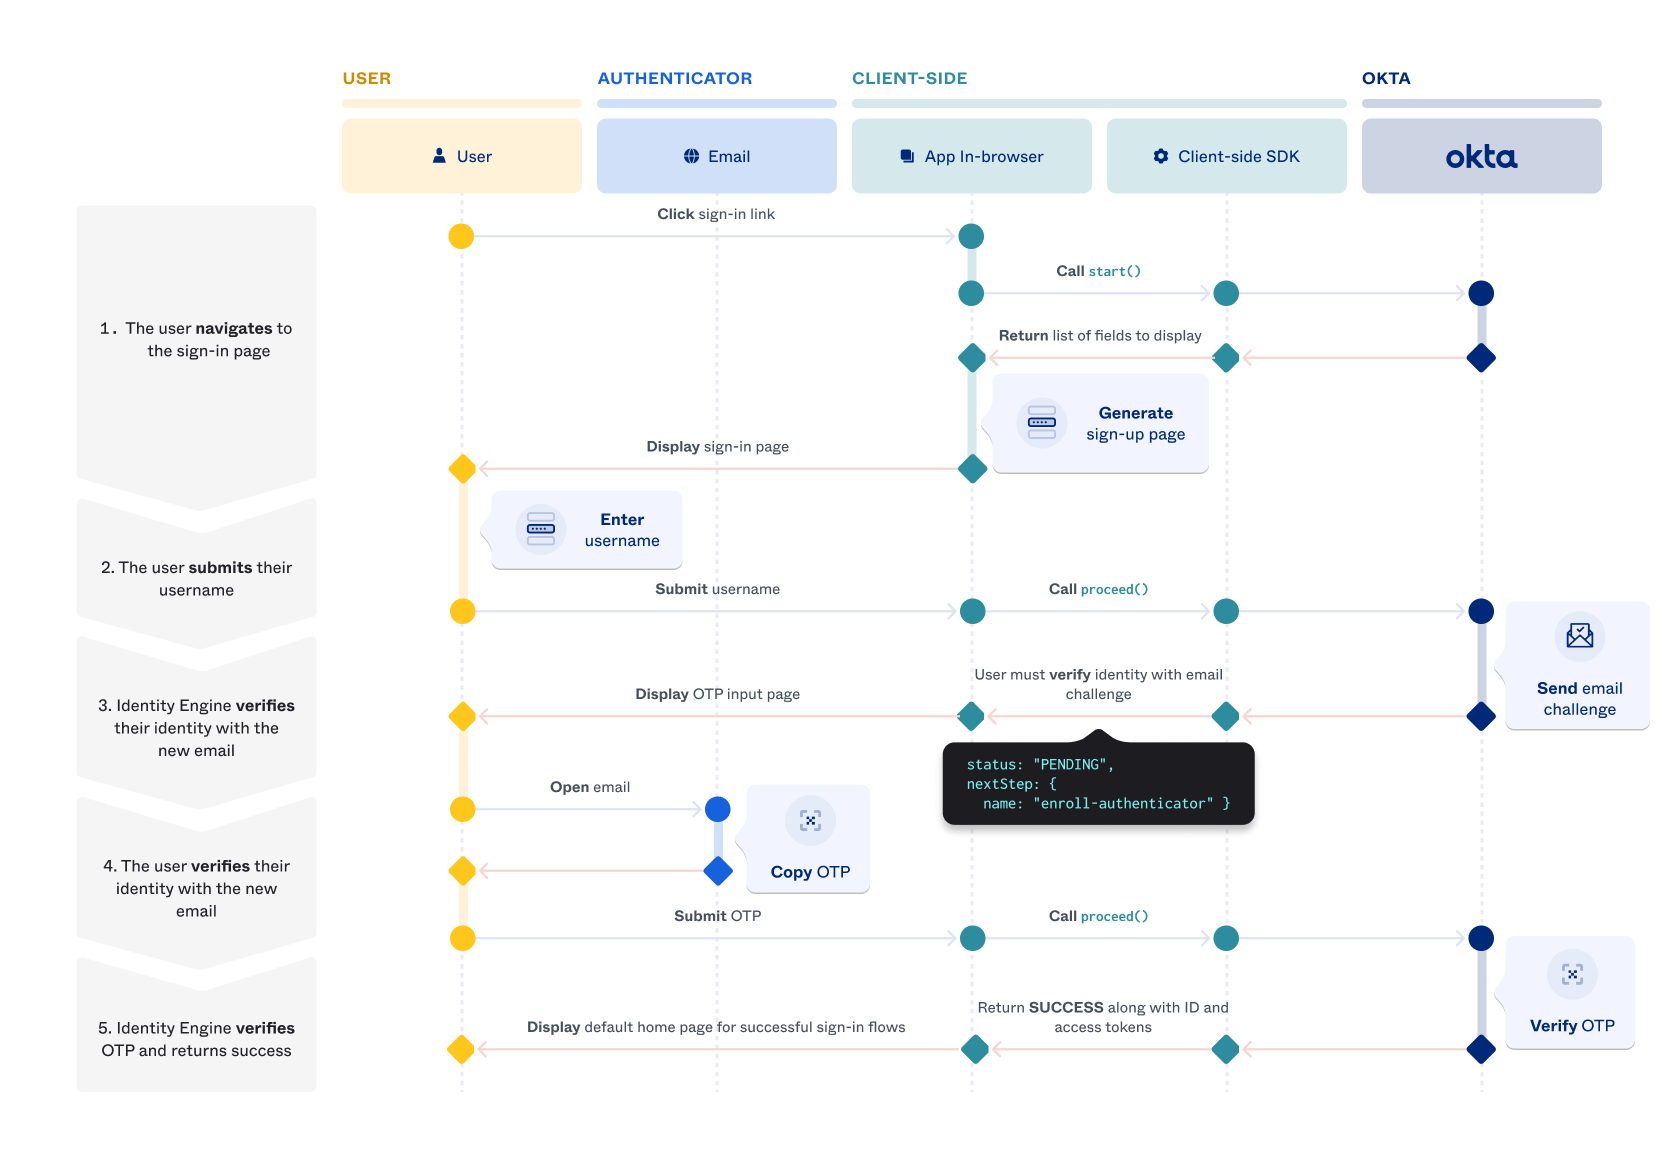
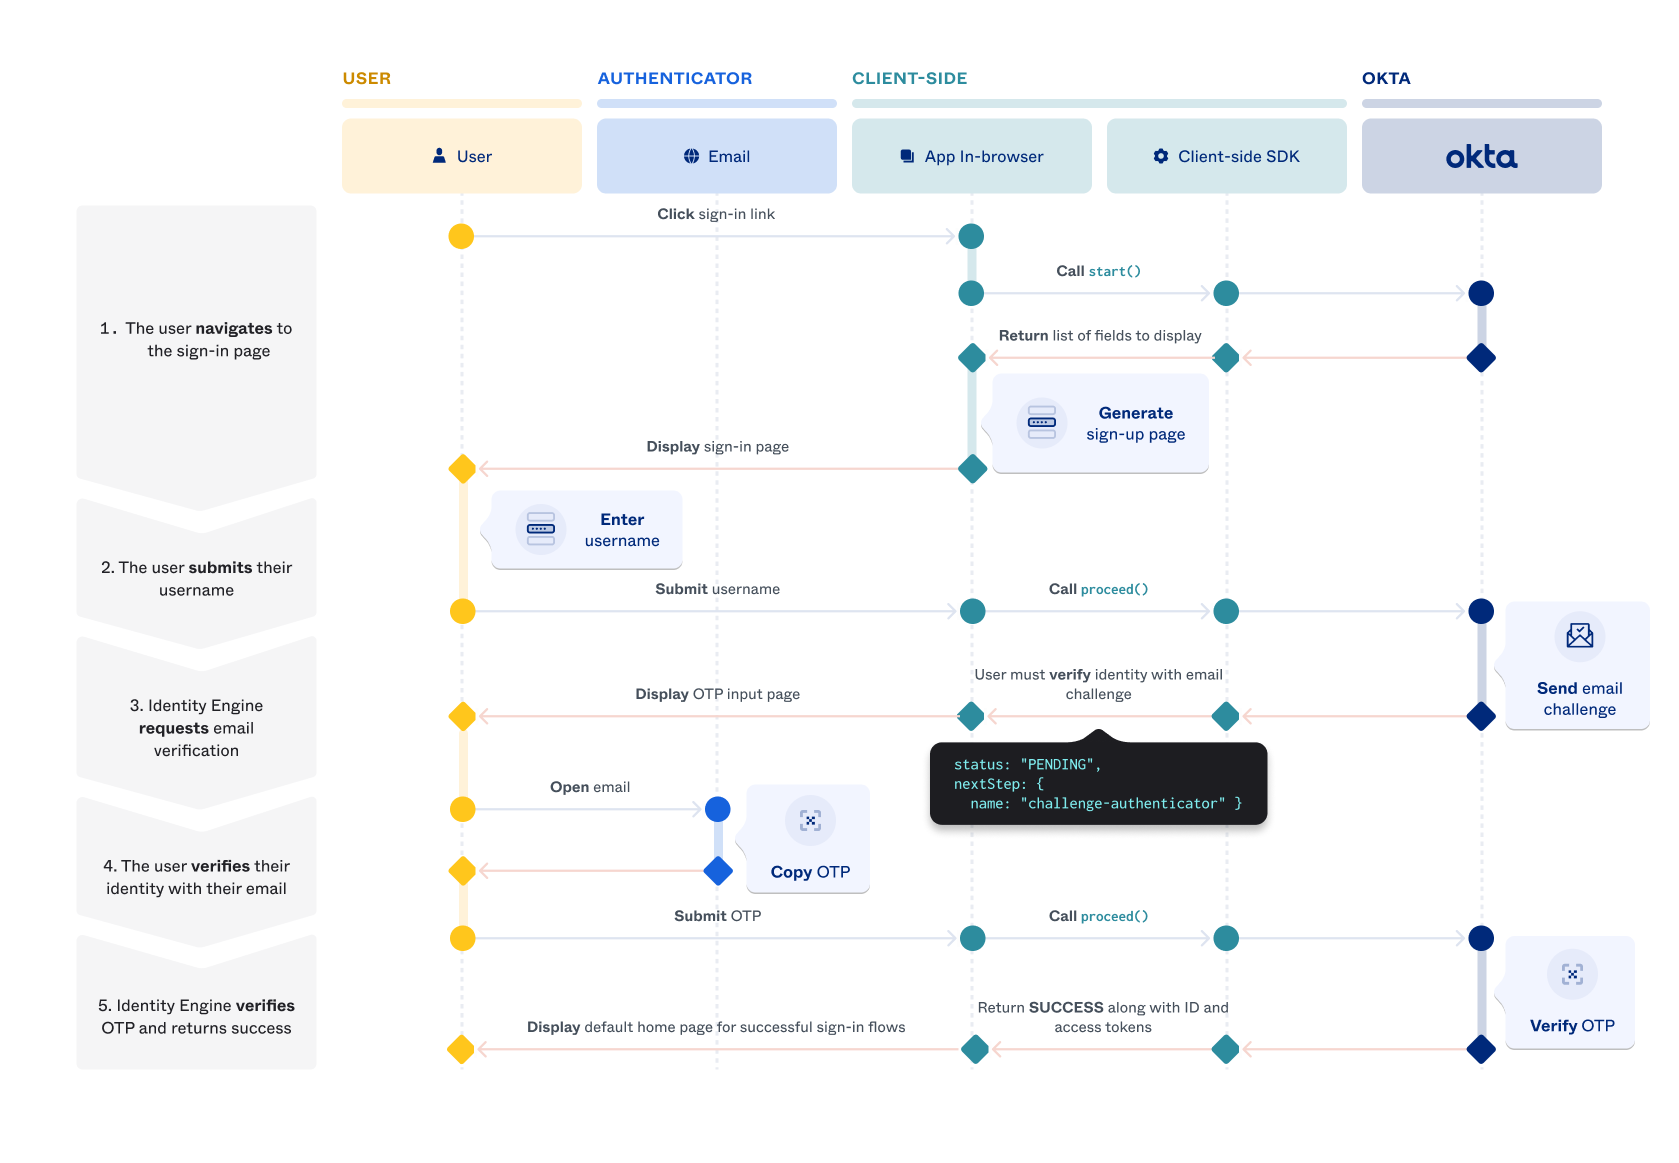
Updates based off of jeffs feedback

diff --git a/packages/@okta/vuepress-site/docs/guides/pwd-optional-sign-in-email/main/react/integrationsteps.md b/packages/@okta/vuepress-site/docs/guides/pwd-optional-sign-in-email/main/react/integrationsteps.md
@@ -68,7 +68,7 @@ Identity Engine sends the user an email that contains a one-time password (OTP) 
 {
   status: "PENDING",
   nextStep: {
-    name: "enroll-authenticator",
+    name: "challenge-authenticator",
     type: "email",
     authenticator: {
       type: "email",
@@ -81,7 +81,7 @@ Identity Engine sends the user an email that contains a one-time password (OTP) 
 
 Build the logic that handles this response and sends the user to a dialog where they enter the OTP.
 
-### 4. The user verifies their identity with the new email
+### 4. The user verifies their identity with their email
 
 The user opens the email sent by Identity Engine. Create a dialog in your app where the user can submit the OTP from the email to Identity Engine.
 
